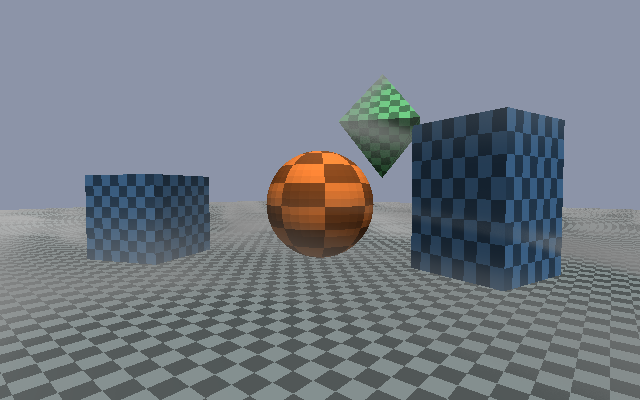
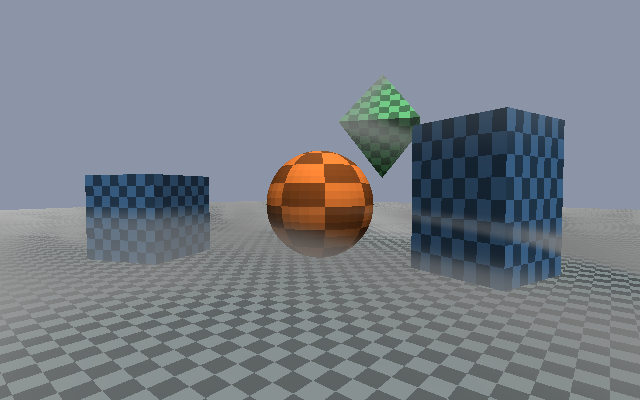
engine3d: foot fog fills to leg height, dissipates before eyes (density-scaled)
Replace the floor-hugging foot layer with one that fills up to leg height then
fades out below eye level; the cutoff height scales with density so thicker
fog rises higher up the legs (to be a setting later). Eye-level stays clear.

diff --git a/engine3d/src/gl_main.cpp b/engine3d/src/gl_main.cpp
@@ -89,12 +89,13 @@ float density(vec3 p) {
     vec3 q = sp + vec3(0.0, 0.0, w * 0.7);
     float s = pow(1.0 - abs(gnoise(q)), 9.0);    // thin, sharp strand
     s = smoothstep(0.32, 0.78, s);               // crisp; fully clear between
-    // Height profile: fog gathers around the feet AND above the head, with the
-    // body/eye-level band left mostly clear.
-    float footFog = exp(-pow(max(p.y, 0.0) / 0.9, 2.0));  // peak at floor, gone by ~y=1.5
-    float headFog = smoothstep(1.9, 3.4, p.y);            // rises above head height
+    // Foot fog fills up to leg height then dissipates before the eyes; thicker
+    // fog (higher density) rises higher up the legs -> exposed as a setting later.
+    float legTop = 0.6 + uFogDensity * 0.5;
+    float footFog = 1.0 - smoothstep(legTop, legTop + 0.5, p.y);
+    float headFog = smoothstep(1.9, 3.4, p.y);            // above the head
     float profile = max(footFog, headFog);
-    return uFogDensity * s * profile;             // streams, gated to feet + overhead
+    return uFogDensity * s * profile;             // streams, gated to legs + overhead
 }
 void main() {
     float c = mod(floor(vUV.x * 8.0) + floor(vUV.y * 8.0), 2.0);